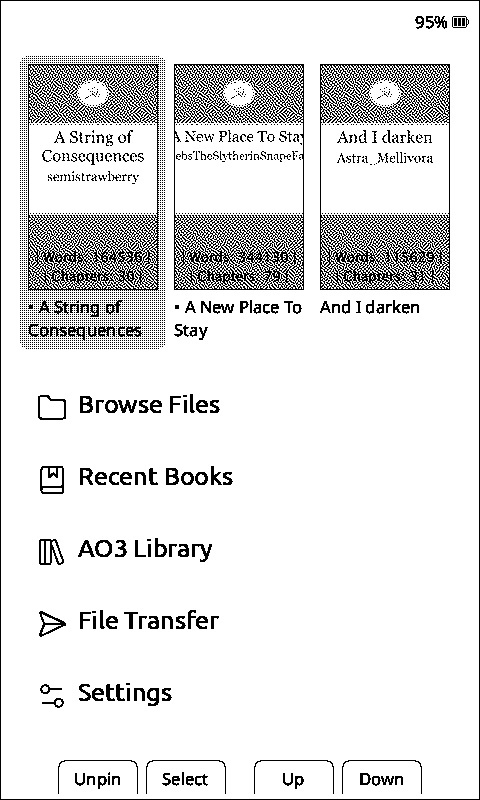
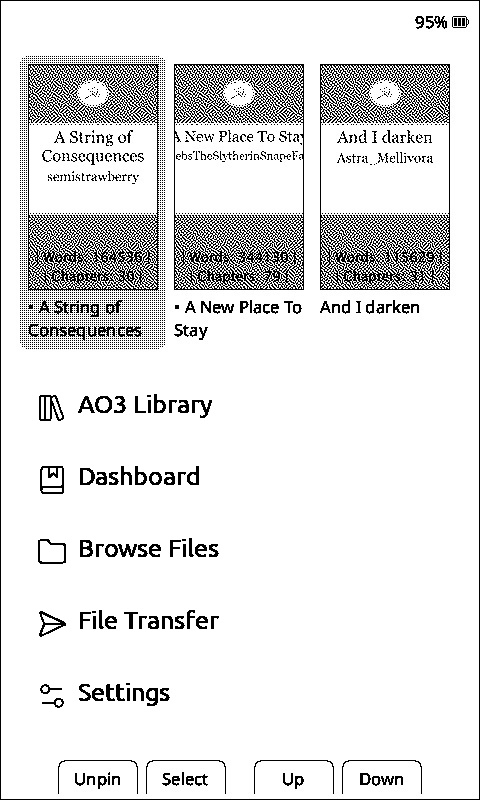
chore: Version bump, Readme update, Homescreen Image update

diff --git a/scripts/git_branch.py b/scripts/git_branch.py
@@ -86,7 +86,7 @@ def inject_version(env):
     base_version = get_base_version(project_dir)
     branch = get_git_branch(project_dir)
     short_sha = get_git_short_sha(project_dir)
-    version_string = f'1.4.0-44-Preview 5'
+    version_string = f'1.4.0'
     # version_string = f'{base_version}-dev-{branch}-{short_sha}'
 
     env.Append(CPPDEFINES=[('CROSSPOINT_VERSION', f'\\"{version_string}\\"')])

diff --git a/README.md b/README.md
@@ -2,10 +2,12 @@
 > [!WARNING]
 > **NOT COMPATIBLE WITH DEVICES WITH THE NEW DISPLAY CONTROLLER** New x3/x4 batches are shipped  with a new display controller. This will be fixed in a future release.
 
-- [x] **AO3-style library browser**, complete with summary and metadata square. You can add **up to 400 books** to the AO3 library.
+- [x] **AO3-style library browser**, complete with summary and metadata square. You can add **up to 1000 books** to the AO3 library.
 - [x] Compatible with **Calibre+FanFicFare epubs** with *<u>*unmodified metadata spine*</u>* and **epubs from AO3**
 - [x] AO3 Library **sorting and filtering** with 2 modes (Automatic & Folder Tree)
 - [x] **Download new chapters** directly from AO3
+- [x] **Dashboard Menu**: Marked for Later, New Chapter Fics, WIPs List, Recents
+- [x] **Series continous reading**: find books in the same AO3 series when at End of Book
 - [x] **Auto index ao3 stories** in chunks
 - [x] **Track the status** of each fic directly from the File Browser (introduces 5 statuses, with a corresponding icon: Unread, Reading, Waiting for Chapter, New Chapter Available, Finished)
 - [x] **Pin your longfics** to the homescreen, so they aren't pushed off by your oneshots
@@ -13,17 +15,15 @@
 - [x] **Improved menu navigation**: hold left/right to skip multiple lines in File Browser, Reader Menu and Homescreen
 - [x] Support for **line breaks**
 
-What's Next in AvesO3 1.4.0
-- [ ] Series continous reading
-- [ ] Quick Access Menu: Marked for Later, Followed Fics (Subscriptions)
-- [ ] AO3 max book cap increase
+What's Next in AvesO3 1.5.0
 - [ ] Separate AO3 font and book font
+- [ ] Bookmark fics with notes
+- [ ] AO3 story QR code
+- [ ] End of Book rework
+- [ ] Misc cosmetic tweaks
 
 What may come in the future:
-- [ ] Locked fics support
-- [ ] Bookmarked fics
-- [ ] Online backend that can host your library online
-- [ ] More!
+- [ ] Send to AvesO3 web extension for easy fic transfer, locked fic updates and series updates.
 
 # v.1.3.0 Features
 **1. Automatic Sort and Filter**
